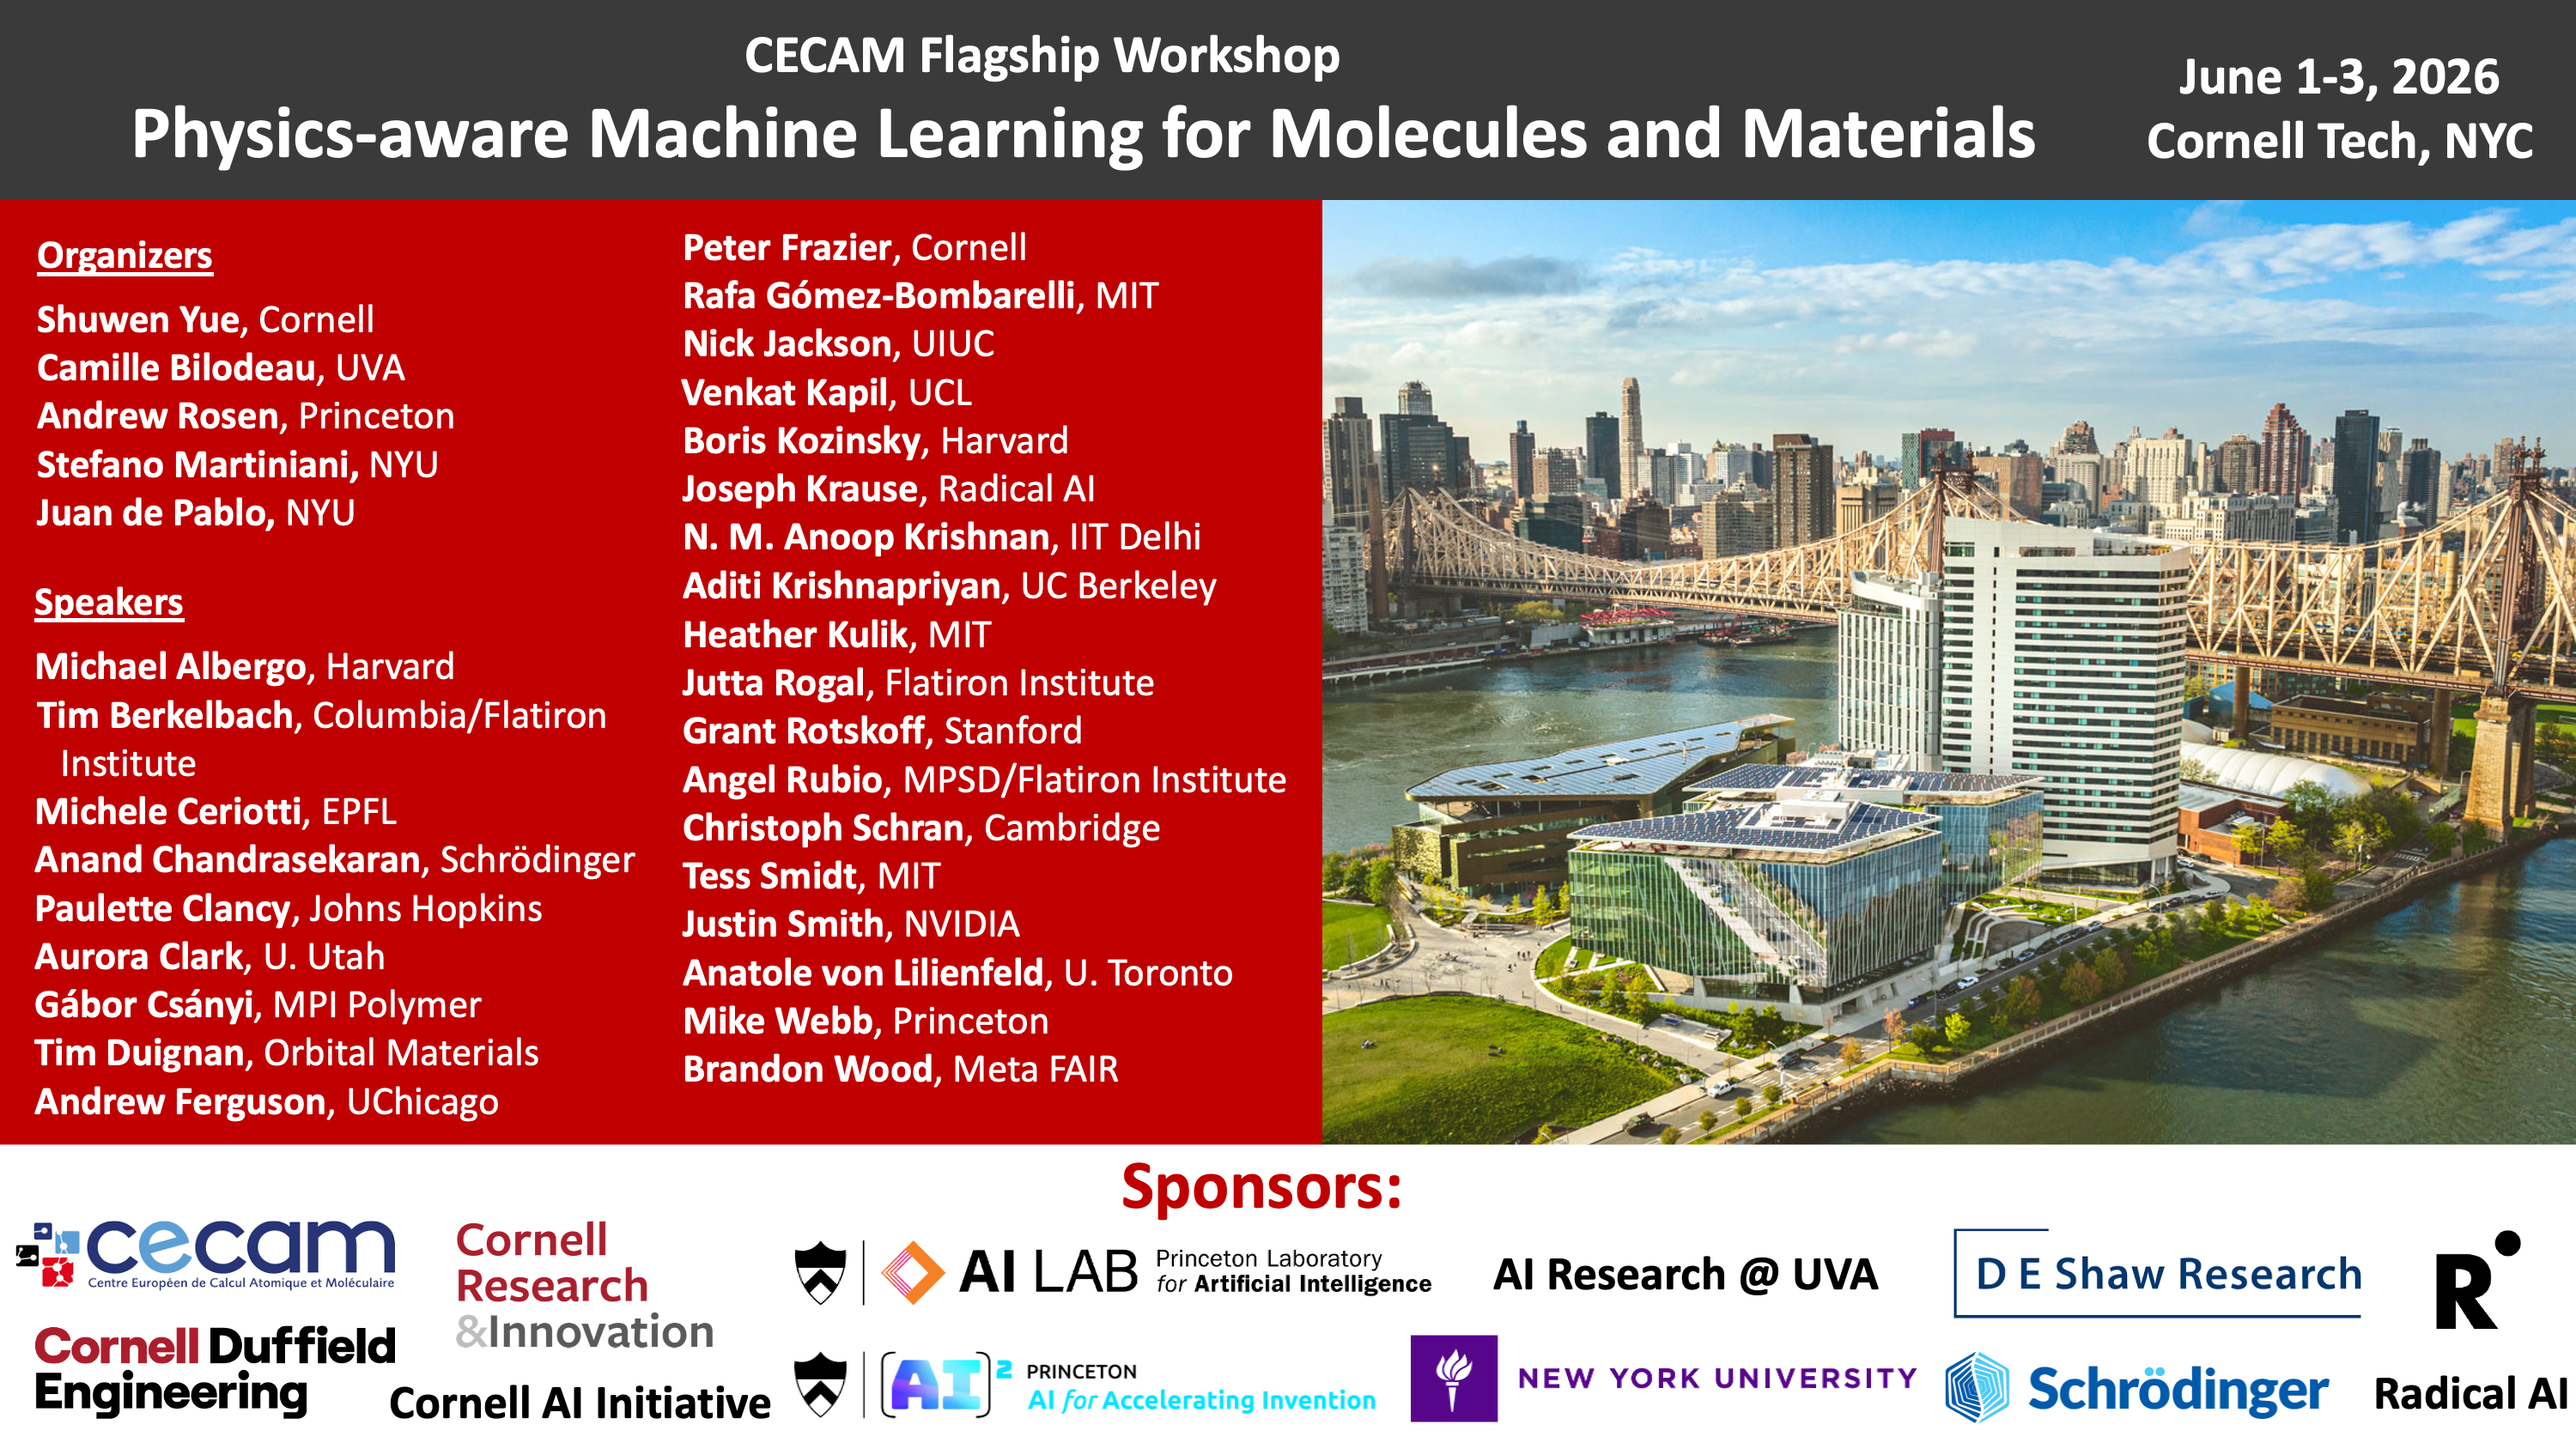
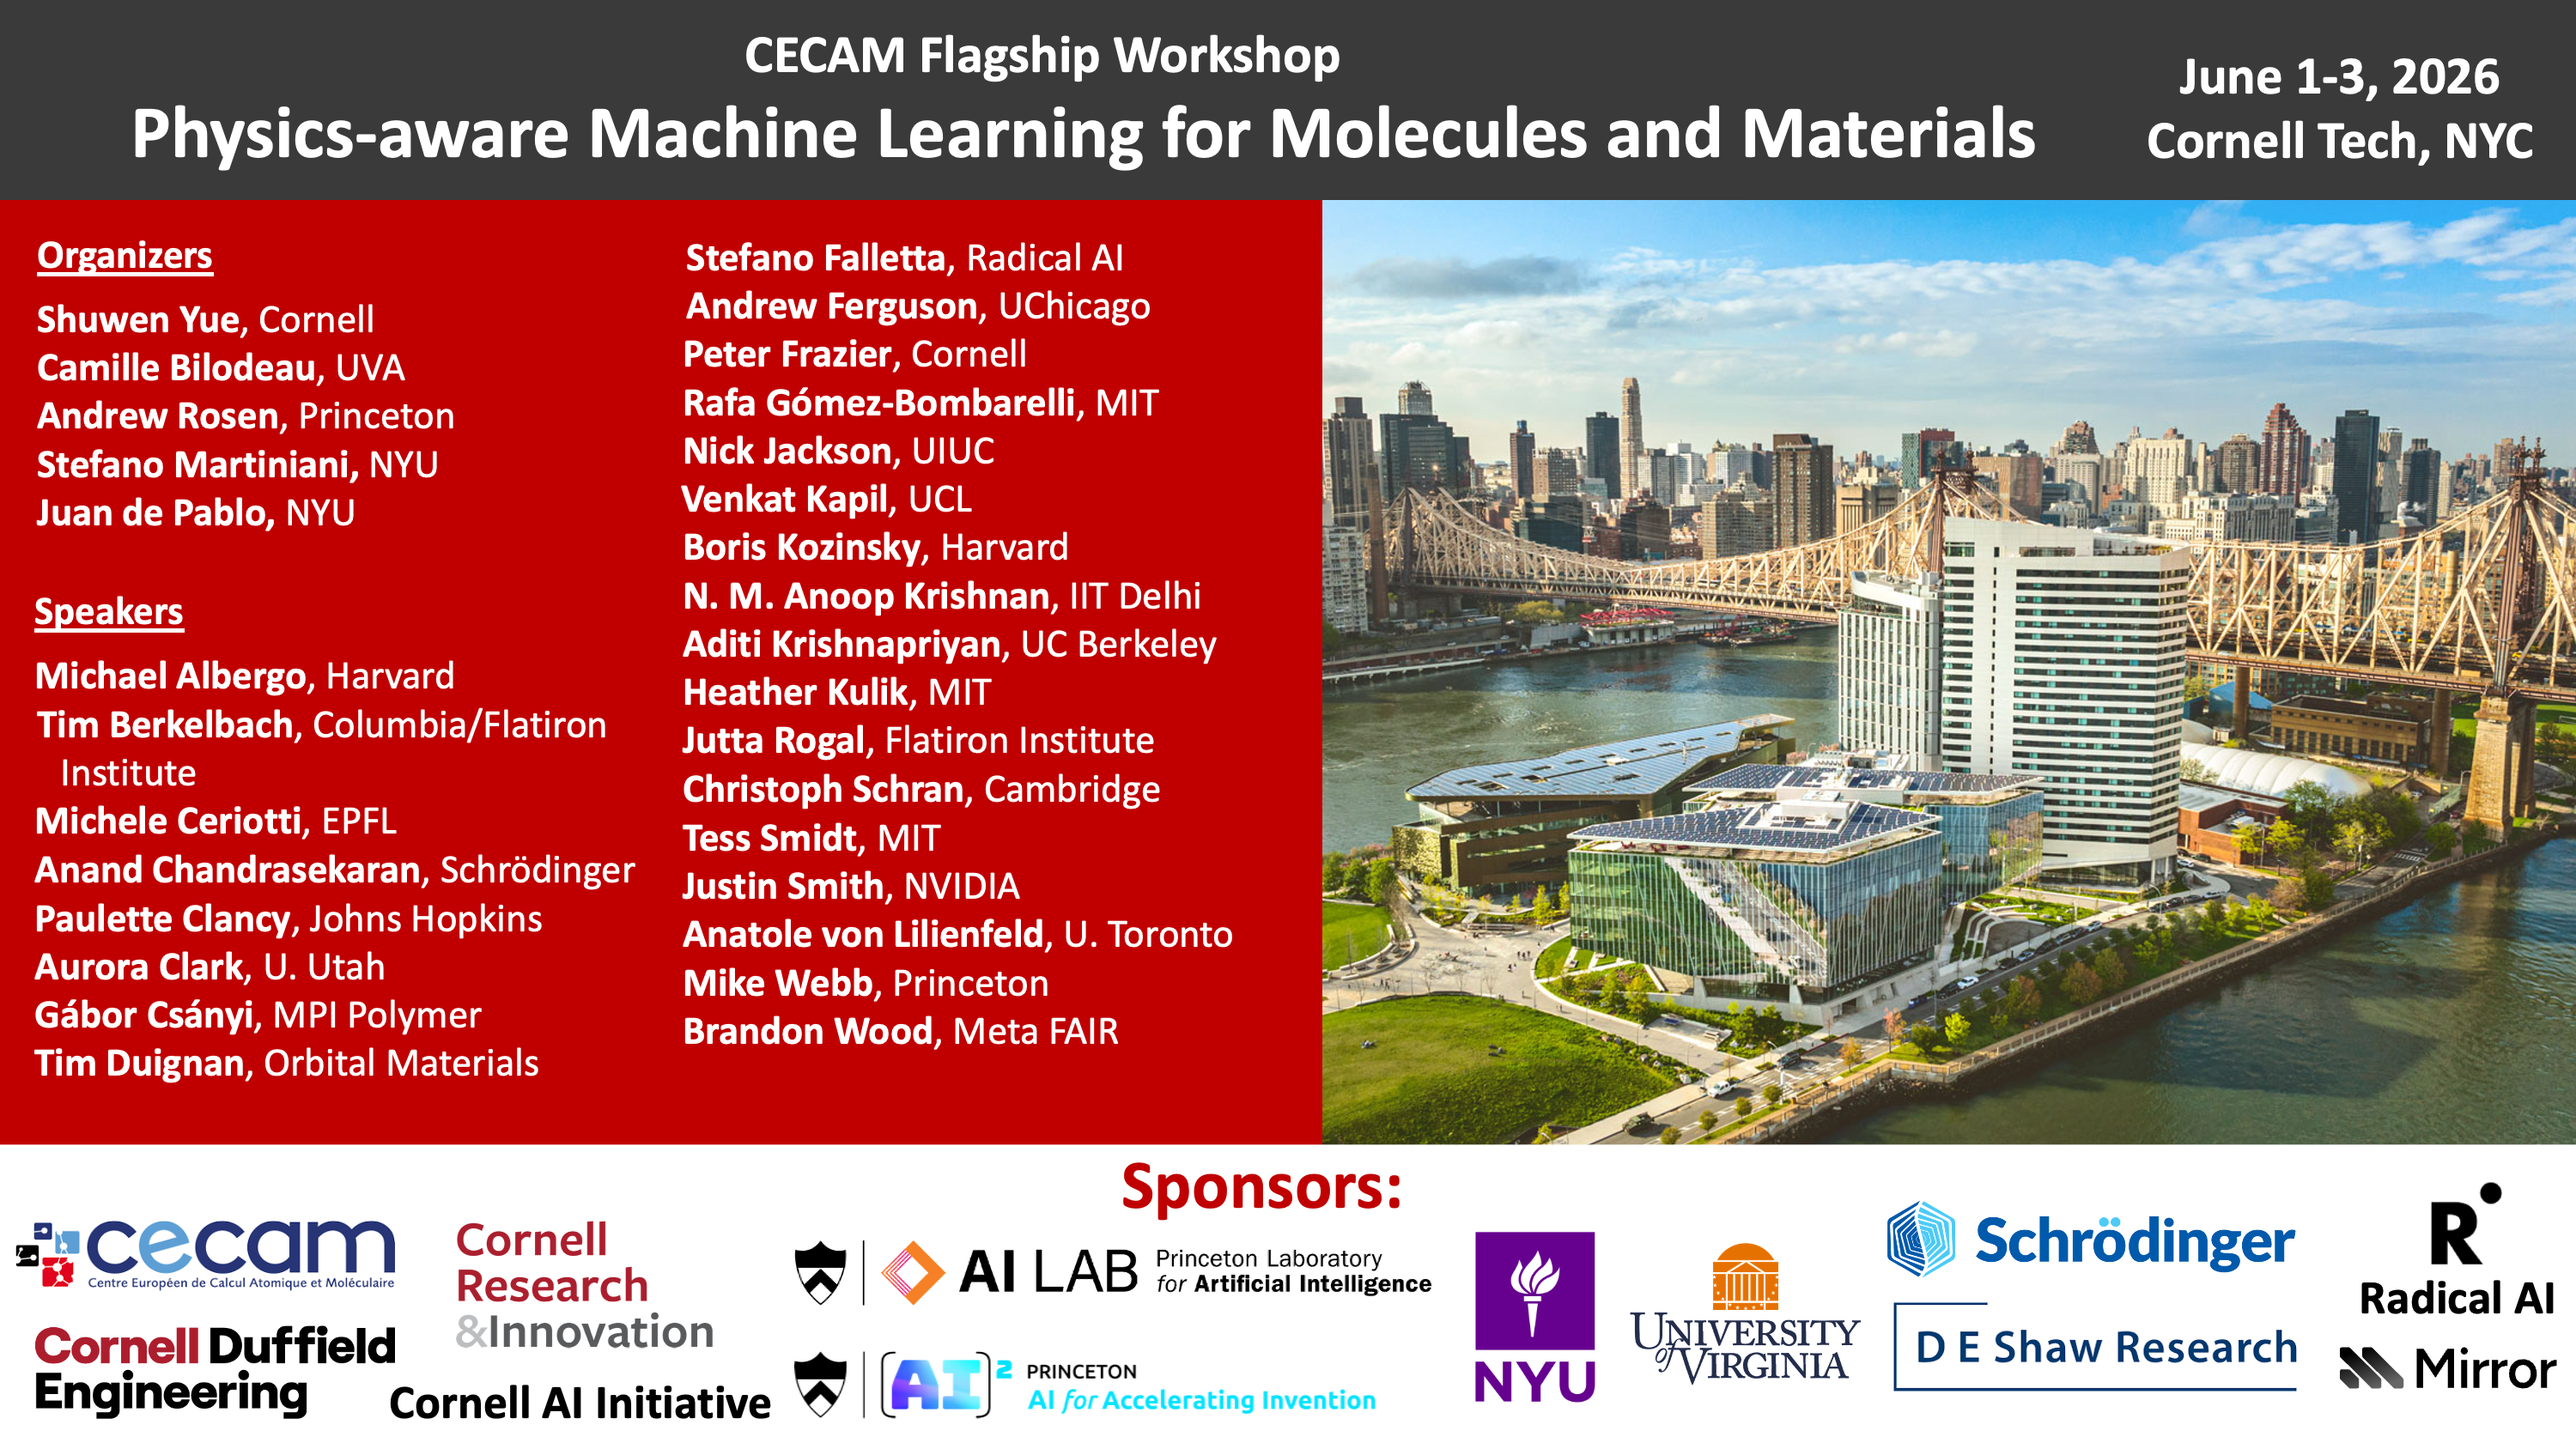
news

Changed region(s): [[0.0, 0.154, 0.496, 0.7701], [0.527, 0.8009, 1.0, 0.9858]]

diff --git a/_pages/news.md b/_pages/news.md
@@ -90,11 +90,28 @@ permalink: /news/
   <a href="{{ site.baseurl }}/news/2023">2023</a>
 </div>
 
+<div class="jumbotron">
+<div class="col-md-12 col-sm-12 mx-auto text-center">
+<p class="header-month">June 2026</p>
+<p class="text">The group goes to the <a href='https://www.cecam.org/workshop-details/physics-aware-machine-learning-for-molecules-and-materials-1554' target="_blank" style='color: #A1CF8D;'>CECAM Flagship Workshop on Physics-aware Machine Learning for Molecules and Materials</a> hosted at Cornell Tech in NYC!</p>
+<p class="text">Chenlu presented a poster on applying MLIPs for C-N coupling mechanisms and Prajwal presented a poster on physics-aware active learning schemes for MLIP development! </p>
+<img src="{{ site.url }}{{ site.baseurl }}/images/news_images/2026_CECAM_group_photo.jpeg" width="80%" style="margin-top: 10px;" />
+<p class="text">Shuwen lead the organization of the workshop along with co-organizers Camille Bilodeau (UVA), Andrew Rosen (Princeton), Stefano Martiniani (NYU), and Juan de Pablo (NYU)! And she gave a talk on our new exciting work on uncertainty quantification and active learning algorithms for MLIPs! </p>
+<div style="display: flex; gap: 16px; justify-content: center; align-items: center; margin-top: 10px;">
+  <img src="{{ site.url }}{{ site.baseurl }}/images/news_images/2026_CECAM_organizers_photo.jpeg" width="45%" />
+  <img src="{{ site.url }}{{ site.baseurl }}/images/news_images/2026_CECAM_view_photo.jpeg" width="45%" />
+</div>
+<p class="text">In between CECAM sessions, Shuwen also squeezed in a side quest across the river to give a talk at the <a href='https://eipm.weill.cornell.edu/news-events/symposium-artificial-intelligence-basic-research-medicine-and-life-sciences' target="_blank" style='color: #A1CF8D;'>Artificial Intelligence for Basic Research in Medicine and the Life Sciences Symposium</a> at Weill Cornell!</p>
+</div>
+</div>
+
 
 <div class="jumbotron">
 <div class="col-md-12 col-sm-12 mx-auto text-center">
 <p class="header-month">May 2026</p>
 <p class="text">Shuwen gives an invited talk at the <a href='https://cent.mit.edu' target="_blank" style='color: #A1CF8D;'>DOE Center for Enhanced Nanofluidic Transport (CENT) EFRC</a>!</p>
+<p class="text">We received a SPROUT Award from Cornell Duffield Engineering to fund a collaboration with Yu Zhong (Cornell MSE) and Nick Abbott (Cornell CBE)!</p>
+<p class="text">Lyndon's <a href='https://doi.org/10.1016/j.biortech.2026.134907' target="_blank" style='color: #A1CF8D;'>co-first author paper</a> on ML for predicting experimental parameters for biomass pyrolysis in collaboration with Iris Yu's group at NUS is now out in <em>Bioresource Technology</em>!</p>
 </div>
 </div>
 
